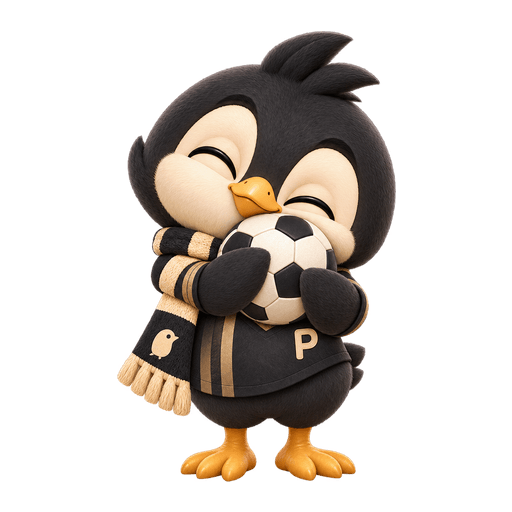
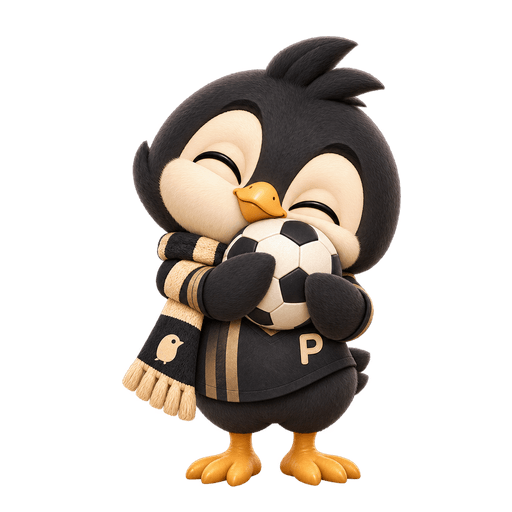
Cada campo de contraseña se muestra por separado y recorta las mascotas al contenido
- Los formularios con mas de un campo de contraseña compartida (restablecer y cambiar contraseña) usaban un unico "ver/ocultar" para todos los campos a la vez; ahora cada input tiene su propio estado independiente.
- Recorta el margen transparente de cada mascota de avatar a su contenido real y la vuelve a centrar en un lienzo cuadrado: varias posturas tenian el personaje descentrado dentro de su propio PNG (mas margen a un lado que al otro), así que aun con el marco circular a color completo (cover) se veia parte del fondo asomando por una esquina.

Changed region(s): [[0.2188, 0.0625, 0.7812, 0.9688], [0.7188, 0.2188, 0.75, 0.2812]]

diff --git a/frontend/src/app/features/profile/profile-change-password/profile-change-password.component.html b/frontend/src/app/features/profile/profile-change-password/profile-change-password.component.html
@@ -11,17 +11,17 @@
       <span class="field-label">Contraseña actual</span>
       <div class="field-input password-input">
         <input
-          [type]="page.passwordVisible() ? 'text' : 'password'"
+          [type]="page.isPasswordVisible('currentPassword') ? 'text' : 'password'"
           formControlName="currentPassword"
           autocomplete="current-password"
         />
         <button
           type="button"
           class="password-toggle"
-          [attr.aria-label]="page.passwordVisible() ? 'Ocultar contraseña' : 'Mostrar contraseña'"
-          (click)="page.togglePasswordVisibility()"
+          [attr.aria-label]="page.isPasswordVisible('currentPassword') ? 'Ocultar contraseña' : 'Mostrar contraseña'"
+          (click)="page.togglePasswordVisibility('currentPassword')"
         >
-          <piqo-svg [attr.icon]="page.passwordVisible() ? 'ojo-cerrado' : 'ojo'" size="18"></piqo-svg>
+          <piqo-svg [attr.icon]="page.isPasswordVisible('currentPassword') ? 'ojo-cerrado' : 'ojo'" size="18"></piqo-svg>
         </button>
       </div>
     </label>
@@ -30,7 +30,7 @@
       <span class="field-label">Contraseña nueva</span>
       <div class="field-input password-input">
         <input
-          [type]="page.passwordVisible() ? 'text' : 'password'"
+          [type]="page.isPasswordVisible('newPassword') ? 'text' : 'password'"
           formControlName="newPassword"
           autocomplete="new-password"
           placeholder="Minimo 8 caracteres"
@@ -38,10 +38,10 @@
         <button
           type="button"
           class="password-toggle"
-          [attr.aria-label]="page.passwordVisible() ? 'Ocultar contraseña' : 'Mostrar contraseña'"
-          (click)="page.togglePasswordVisibility()"
+          [attr.aria-label]="page.isPasswordVisible('newPassword') ? 'Ocultar contraseña' : 'Mostrar contraseña'"
+          (click)="page.togglePasswordVisibility('newPassword')"
         >
-          <piqo-svg [attr.icon]="page.passwordVisible() ? 'ojo-cerrado' : 'ojo'" size="18"></piqo-svg>
+          <piqo-svg [attr.icon]="page.isPasswordVisible('newPassword') ? 'ojo-cerrado' : 'ojo'" size="18"></piqo-svg>
         </button>
       </div>
     </label>
@@ -49,14 +49,18 @@
     <label class="field">
       <span class="field-label">Repite la contraseña nueva</span>
       <div class="field-input password-input">
-        <input [type]="page.passwordVisible() ? 'text' : 'password'" formControlName="confirmPassword" autocomplete="new-password" />
+        <input
+          [type]="page.isPasswordVisible('confirmPassword') ? 'text' : 'password'"
+          formControlName="confirmPassword"
+          autocomplete="new-password"
+        />
         <button
           type="button"
           class="password-toggle"
-          [attr.aria-label]="page.passwordVisible() ? 'Ocultar contraseña' : 'Mostrar contraseña'"
-          (click)="page.togglePasswordVisibility()"
+          [attr.aria-label]="page.isPasswordVisible('confirmPassword') ? 'Ocultar contraseña' : 'Mostrar contraseña'"
+          (click)="page.togglePasswordVisibility('confirmPassword')"
         >
-          <piqo-svg [attr.icon]="page.passwordVisible() ? 'ojo-cerrado' : 'ojo'" size="18"></piqo-svg>
+          <piqo-svg [attr.icon]="page.isPasswordVisible('confirmPassword') ? 'ojo-cerrado' : 'ojo'" size="18"></piqo-svg>
         </button>
       </div>
     </label>

diff --git a/frontend/src/app/features/auth/reset-password/reset-password.component.html b/frontend/src/app/features/auth/reset-password/reset-password.component.html
@@ -21,7 +21,7 @@
         <span class="field-label">Nueva contraseña</span>
         <div class="field-input password-input">
           <input
-            [type]="page.passwordVisible() ? 'text' : 'password'"
+            [type]="page.isPasswordVisible('password') ? 'text' : 'password'"
             formControlName="password"
             autocomplete="new-password"
             placeholder="Minimo 8 caracteres"
@@ -29,10 +29,10 @@
           <button
             type="button"
             class="password-toggle"
-            [attr.aria-label]="page.passwordVisible() ? 'Ocultar contraseña' : 'Mostrar contraseña'"
-            (click)="page.togglePasswordVisibility()"
+            [attr.aria-label]="page.isPasswordVisible('password') ? 'Ocultar contraseña' : 'Mostrar contraseña'"
+            (click)="page.togglePasswordVisibility('password')"
           >
-            <piqo-svg [attr.icon]="page.passwordVisible() ? 'ojo-cerrado' : 'ojo'" size="18"></piqo-svg>
+            <piqo-svg [attr.icon]="page.isPasswordVisible('password') ? 'ojo-cerrado' : 'ojo'" size="18"></piqo-svg>
           </button>
         </div>
       </label>
@@ -40,14 +40,18 @@
       <label class="field">
         <span class="field-label">Repite la contraseña</span>
         <div class="field-input password-input">
-          <input [type]="page.passwordVisible() ? 'text' : 'password'" formControlName="confirm" autocomplete="new-password" />
+          <input
+            [type]="page.isPasswordVisible('confirm') ? 'text' : 'password'"
+            formControlName="confirm"
+            autocomplete="new-password"
+          />
           <button
             type="button"
             class="password-toggle"
-            [attr.aria-label]="page.passwordVisible() ? 'Ocultar contraseña' : 'Mostrar contraseña'"
-            (click)="page.togglePasswordVisibility()"
+            [attr.aria-label]="page.isPasswordVisible('confirm') ? 'Ocultar contraseña' : 'Mostrar contraseña'"
+            (click)="page.togglePasswordVisibility('confirm')"
           >
-            <piqo-svg [attr.icon]="page.passwordVisible() ? 'ojo-cerrado' : 'ojo'" size="18"></piqo-svg>
+            <piqo-svg [attr.icon]="page.isPasswordVisible('confirm') ? 'ojo-cerrado' : 'ojo'" size="18"></piqo-svg>
           </button>
         </div>
       </label>

diff --git a/frontend/src/app/features/profile/profile-change-password/profile-change-password.facade.ts b/frontend/src/app/features/profile/profile-change-password/profile-change-password.facade.ts
@@ -14,7 +14,8 @@ export class ProfileChangePasswordFacade {
 
   readonly loading = signal(false);
   readonly errorMessage = signal<string | null>(null);
-  readonly passwordVisible = signal(false);
+  /** Cada campo de contraseña se muestra/oculta por separado: pulsar el ojo de uno no debe afectar a los demás. */
+  private readonly visibleFields = signal<ReadonlySet<string>>(new Set());
 
   readonly form = this.fb.nonNullable.group({
     currentPassword: ['', [Validators.required]],
@@ -22,8 +23,20 @@ export class ProfileChangePasswordFacade {
     confirmPassword: ['', [Validators.required]],
   });
 
-  togglePasswordVisibility(): void {
-    this.passwordVisible.update((v) => !v);
+  isPasswordVisible(field: string): boolean {
+    return this.visibleFields().has(field);
+  }
+
+  togglePasswordVisibility(field: string): void {
+    this.visibleFields.update((current) => {
+      const next = new Set(current);
+      if (next.has(field)) {
+        next.delete(field);
+      } else {
+        next.add(field);
+      }
+      return next;
+    });
   }
 
   goBack(): void {

diff --git a/frontend/src/app/features/auth/reset-password/reset-password.facade.ts b/frontend/src/app/features/auth/reset-password/reset-password.facade.ts
@@ -15,7 +15,8 @@ export class ResetPasswordFacade {
   readonly loading = signal(false);
   readonly success = signal(false);
   readonly errorMessage = signal<string | null>(null);
-  readonly passwordVisible = signal(false);
+  /** Cada campo de contraseña se muestra/oculta por separado: pulsar el ojo de uno no debe afectar al otro. */
+  private readonly visibleFields = signal<ReadonlySet<string>>(new Set());
 
   readonly form = this.fb.nonNullable.group({
     password: ['', [Validators.required, Validators.minLength(8)]],
@@ -29,8 +30,20 @@ export class ResetPasswordFacade {
     }
   }
 
-  togglePasswordVisibility(): void {
-    this.passwordVisible.update((v) => !v);
+  isPasswordVisible(field: string): boolean {
+    return this.visibleFields().has(field);
+  }
+
+  togglePasswordVisibility(field: string): void {
+    this.visibleFields.update((current) => {
+      const next = new Set(current);
+      if (next.has(field)) {
+        next.delete(field);
+      } else {
+        next.add(field);
+      }
+      return next;
+    });
   }
 
   submit(): void {
